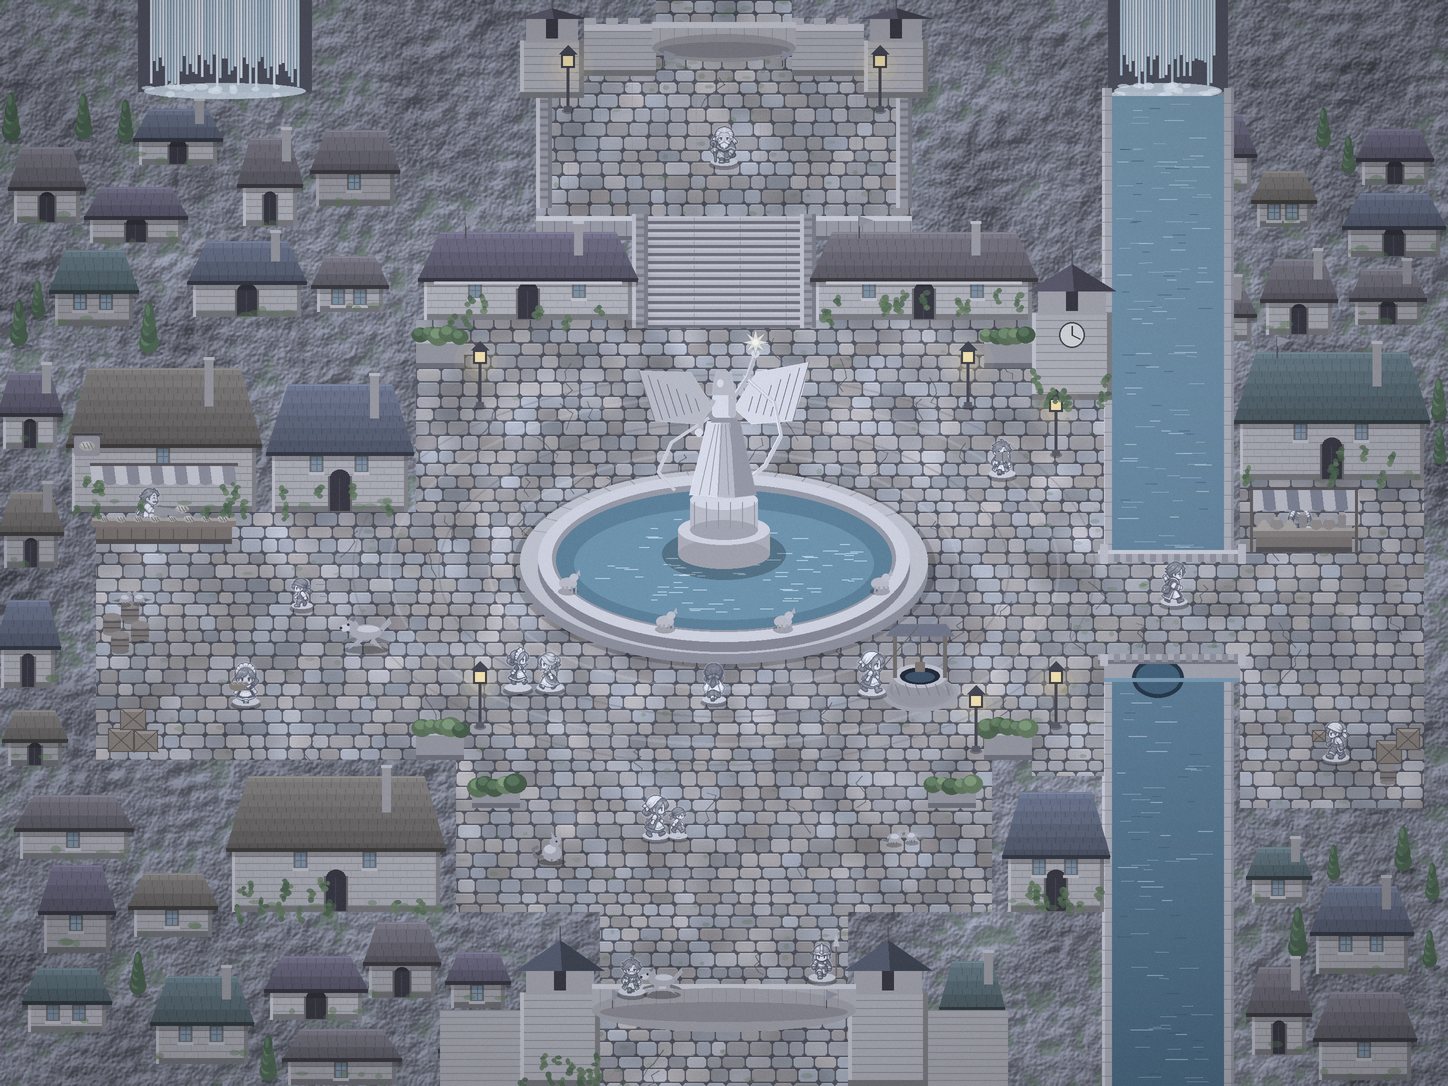
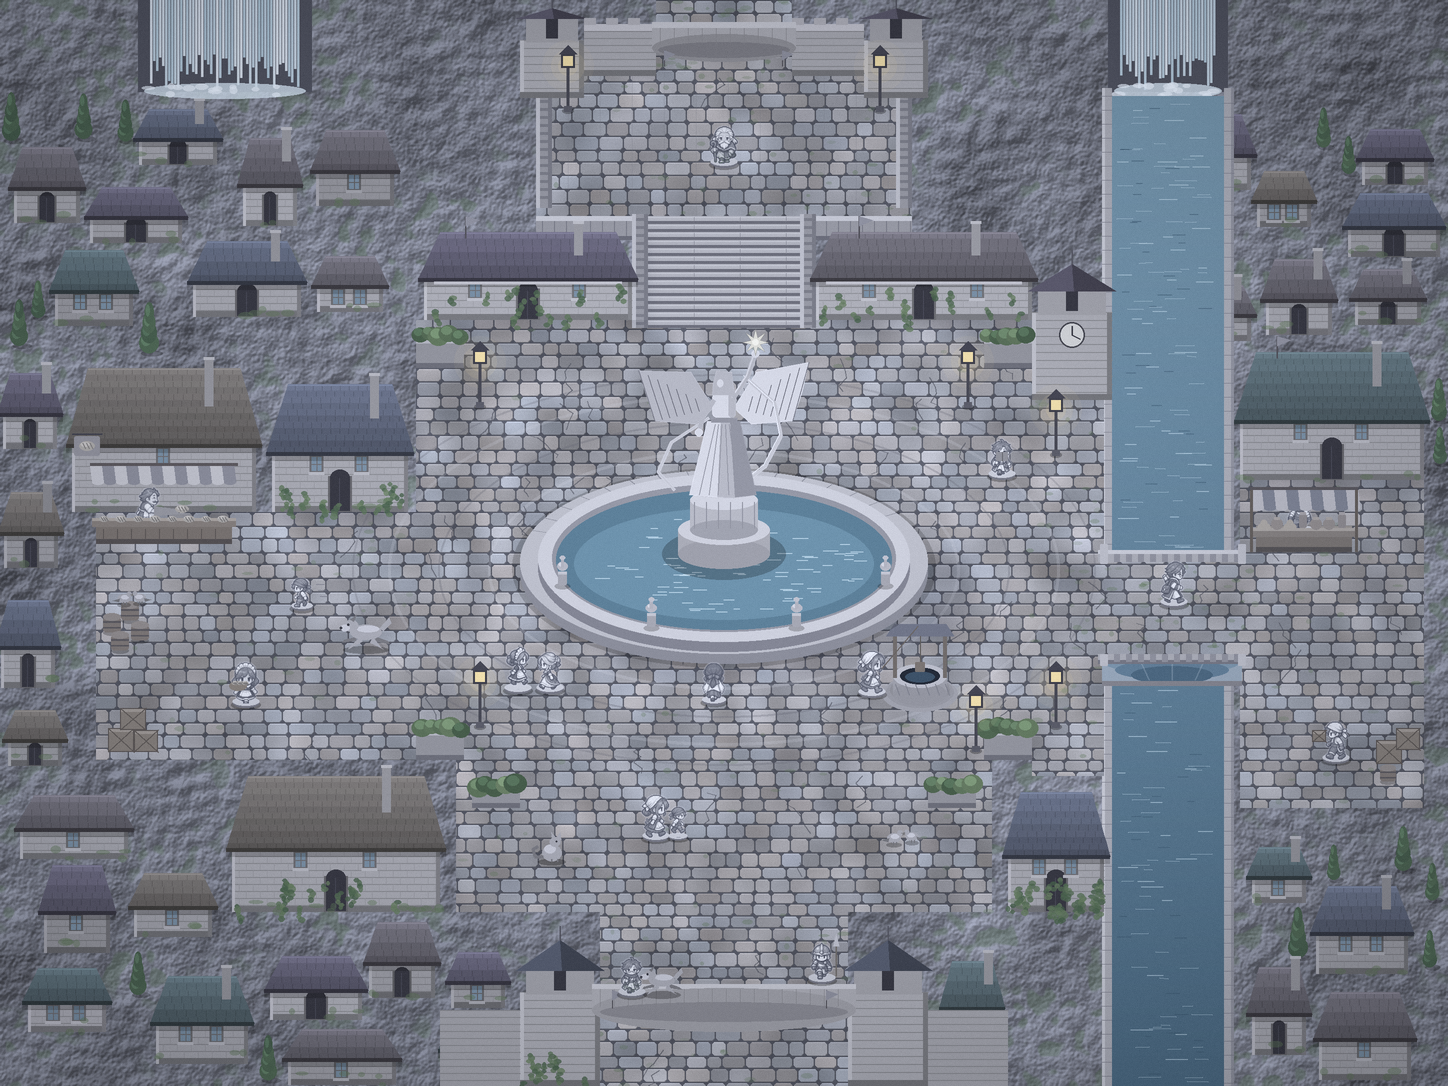
sync: stone town updates

diff --git a/tools/build_stone_town_assets.py b/tools/build_stone_town_assets.py
@@ -572,12 +572,17 @@ def paint_waterfall(p, x0, x1, y0, y1, rng):
 
 def paint_bridge(p):
     bx0, by0, bx1, by1 = WALK["bridge"]
-    # arch face south of the deck (over water)
-    p.rect(bx0 + 8, by1, bx1 - 8, by1 + 22, fill=(166, 165, 169))
-    p.rect(bx0 + 8, by1, bx1 - 8, by1 + 3, fill=(196, 195, 199))
-    p.ellipse((bx0 + bx1) / 2 - 14, by1 + 22, 26, 20, fill=(38, 58, 76))
-    p.ellipse((bx0 + bx1) / 2 - 14, by1 + 22, 22, 16, fill=(64, 100, 124))
-    p.rect(bx0 + 8, by1 + 22, bx1 - 8, by1 + 26, fill=(118, 156, 176))
+    cx = (bx0 + bx1) / 2
+    half = (bx1 - bx0) / 2 - 10
+    # arch face south of the deck: a pale stone rim framing a shadowed strip of water (not a flat dark hole).
+    p.rect(bx0 + 6, by1, bx1 - 6, by1 + 28, fill=(152, 168, 182))
+    p.ellipse(cx, by1 + 8, half, 9, fill=(122, 150, 170))
+    p.ellipse(cx, by1 + 14, half * 0.86, 10, fill=(96, 128, 152))
+    p.ellipse(cx, by1 + 19, half * 0.62, 9, fill=(74, 106, 130))
+    for rx in (-half * 0.5, 0, half * 0.5):
+        p.line([(cx + rx, by1 + 2), (cx + rx * 0.7, by1 + 24)], (210, 220, 226, 60), 1.4)
+    p.rect(bx0 + 6, by1 - 2, bx1 - 6, by1 + 3, fill=(198, 197, 201))
+    p.rect(bx0 + 6, by1 + 25, bx1 - 6, by1 + 30, fill=(134, 133, 139))
     # deck (cobbles get pasted separately); parapets north and south
     p.rect(bx0 + 2, by0 - 10, bx1 - 2, by0 + 2, fill=(174, 173, 177))
     p.rect(bx0 + 2, by0 - 10, bx1 - 2, by0 - 6, fill=(204, 203, 207))
@@ -615,16 +620,18 @@ def paint_fountain(p, rng):
         rx = cx + math.cos(ang) * 150 * rr
         ry = cy + 4 + math.sin(ang) * 54 * rr
         p.line([(rx, ry), (rx + rng.uniform(6, 16), ry)], (206, 230, 238, 170), 0.9)
-    # ring of small stone animals on the rim (front side)
-    for a_deg in (25, 70, 110, 155):
+    # small stone finials spaced around the rim (front side) -- a plain baluster shape reads clearly
+    # at this scale, unlike an attempted animal silhouette.
+    for a_deg in (20, 65, 115, 160):
         a = math.radians(a_deg)
         ax, ay = cx + 172 * math.cos(a), cy - 2 + 74 * math.sin(a)
-        p.ellipse(ax, ay + 2, 10, 4, fill=(0, 0, 0, 60))
-        p.ellipse(ax, ay - 6, 9, 6, fill=(184, 183, 187))
-        p.ellipse(ax + 6, ay - 12, 4.5, 4, fill=(190, 189, 193))
-        p.poly([(ax + 8, ay - 15), (ax + 11, ay - 20), (ax + 12, ay - 14)], fill=(176, 175, 179))
-        for dx in (-6, -2, 3, 7):
-            p.rect(ax + dx, ay - 3, ax + dx + 2, ay + 4, fill=(160, 160, 166))
+        p.ellipse(ax, ay + 3, 8, 3.2, fill=(0, 0, 0, 55))
+        p.rect(ax - 4.5, ay - 12, ax + 4.5, ay + 2, fill=(166, 165, 170), r=2)
+        p.rect(ax - 4.5, ay - 12, ax + 4.5, ay - 9, fill=(196, 195, 199))
+        p.ellipse(ax, ay - 17, 5.6, 4.6, fill=(184, 183, 188))
+        p.ellipse(ax - 1.6, ay - 19, 2.4, 2, fill=(212, 211, 215))
+        p.rect(ax - 1.6, ay - 24, ax + 1.6, ay - 16, fill=(178, 177, 182))
+        p.ellipse(ax, ay - 25.5, 3, 2.4, fill=(192, 191, 196))
     # pedestal
     p.ellipse(cx, cy - 6, 62, 26, fill=(0, 0, 0, 58))
     p.rect(cx - 46, cy - 30, cx + 46, cy - 6, fill=(170, 169, 173))
@@ -1083,8 +1090,14 @@ def build_background():
 
     # --- vines and moss creeping over walls
     ivy = random.Random(99)
+    statue_rects = [(o["x"] - 24, o["y"] - 40, o["x"] + o["width"] + 24, o["y"] + o["height"] + 8) for o in objects if o["type"] == "statue"]
+
+    def clear_of_statues(x0, y0, x1, y1):
+        return not any(x0 < sx1 and x1 > sx0 and y0 < sy1 and y1 > sy0 for sx0, sy0, sx1, sy1 in statue_rects)
+
+    ivy_boxes = [box for box in LANDMARK_BOXES[:9] if clear_of_statues(box[0], box[3] - 34, box[2], box[3] + 8)]
     for _ in range(90):
-        bx0, by0, bx1, by1 = ivy.choice(LANDMARK_BOXES[:9])
+        bx0, by0, bx1, by1 = ivy.choice(ivy_boxes)
         vx = ivy.uniform(bx0 + 2, bx1 - 2)
         vy = by1 - ivy.uniform(2, 34)
         for k in range(ivy.randint(3, 6)):
